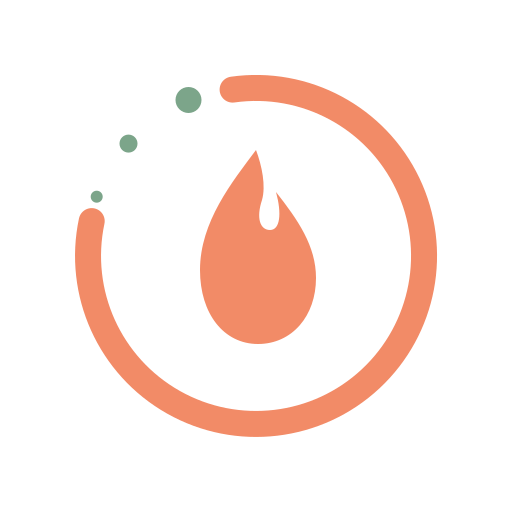
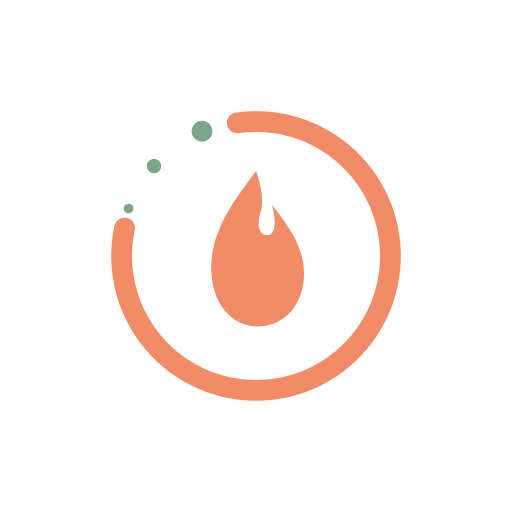
adv

Changed region(s): [[0.125, 0.125, 0.875, 0.875], [0.2188, 0.25, 0.2812, 0.3125], [0.2812, 0.3125, 0.3125, 0.3438]]

diff --git a/src/components/AnimatedSplash.tsx b/src/components/AnimatedSplash.tsx
@@ -1,0 +1,158 @@
+import { useEffect } from 'react';
+import { Platform, StyleSheet, View } from 'react-native';
+import Svg, { Circle, Defs, Path, RadialGradient, Stop } from 'react-native-svg';
+import Animated, {
+  runOnJS,
+  useAnimatedStyle,
+  useSharedValue,
+  withDelay,
+  withRepeat,
+  withSequence,
+  withTiming,
+} from 'react-native-reanimated';
+import { useThemeColors } from '../theme/useThemeColors';
+import { duration, easing } from '../theme/motion';
+
+export interface AnimatedSplashProps {
+  visible: boolean;
+  onExitComplete: () => void;
+}
+
+// Mismo tamaño/posición que el splash nativo (assets/splash-icon.png, imageWidth 200 en
+// app.json) — el mark se dibuja estático desde el primer frame, sin animar entrada, para que
+// el handoff nativo → custom sea invisible. Solo el glow y el texto entran animados.
+const MARK_SIZE = 168;
+const RING_D = 'M 232.6,89.6 A 168,168 0 1 1 91.7,221.1';
+const FLAME_D =
+  'M 256,150 C 232,182 200,222 200,270 C 200,314 224,344 258,344 C 292,344 316,316 316,278 C 316,246 298,220 276,192 C 282,214 280,230 270,230 C 260,230 256,218 262,200 C 266,186 262,166 256,150 Z';
+const DOTS = [
+  { cx: 96.7, cy: 196.7, r: 6 },
+  { cx: 128.5, cy: 143.6, r: 9 },
+  { cx: 188.5, cy: 100.0, r: 13 },
+];
+const IDLE_PULSE_DELAY = 900; // arranca después de que el texto ya asentó, para no "saltar" en el handoff
+
+export function AnimatedSplash({ visible, onExitComplete }: AnimatedSplashProps) {
+  const colors = useThemeColors();
+
+  const overlayOpacity = useSharedValue(1);
+  const glowOpacity = useSharedValue(0);
+  const markPulse = useSharedValue(1);
+  const wordmarkOpacity = useSharedValue(0);
+  const wordmarkTranslateY = useSharedValue(12);
+  const taglineOpacity = useSharedValue(0);
+  const taglineTranslateY = useSharedValue(12);
+
+  useEffect(() => {
+    glowOpacity.value = withDelay(150, withTiming(0.5, { duration: duration.slow }));
+
+    markPulse.value = withDelay(
+      IDLE_PULSE_DELAY,
+      withRepeat(
+        withSequence(
+          withTiming(1.03, { duration: duration.slow, easing: easing.standard }),
+          withTiming(1, { duration: duration.slow, easing: easing.standard }),
+        ),
+        -1,
+        true,
+      ),
+    );
+
+    wordmarkOpacity.value = withDelay(200, withTiming(1, { duration: duration.slow, easing: easing.decelerate }));
+    wordmarkTranslateY.value = withDelay(200, withTiming(0, { duration: duration.slow, easing: easing.decelerate }));
+
+    taglineOpacity.value = withDelay(340, withTiming(1, { duration: duration.slow, easing: easing.decelerate }));
+    taglineTranslateY.value = withDelay(340, withTiming(0, { duration: duration.slow, easing: easing.decelerate }));
+    // eslint-disable-next-line react-hooks/exhaustive-deps
+  }, []);
+
+  useEffect(() => {
+    if (!visible) {
+      overlayOpacity.value = withTiming(0, { duration: duration.slow, easing: easing.accelerate }, (finished) => {
+        if (finished) runOnJS(onExitComplete)();
+      });
+    }
+    // eslint-disable-next-line react-hooks/exhaustive-deps
+  }, [visible]);
+
+  const overlayStyle = useAnimatedStyle(() => ({ opacity: overlayOpacity.value }));
+  const glowStyle = useAnimatedStyle(() => ({ opacity: glowOpacity.value }));
+  const markStyle = useAnimatedStyle(() => ({ transform: [{ scale: markPulse.value }] }));
+  const wordmarkStyle = useAnimatedStyle(() => ({
+    opacity: wordmarkOpacity.value,
+    transform: [{ translateY: wordmarkTranslateY.value }],
+  }));
+  const taglineStyle = useAnimatedStyle(() => ({
+    opacity: taglineOpacity.value,
+    transform: [{ translateY: taglineTranslateY.value }],
+  }));
+
+  return (
+    <Animated.View
+      pointerEvents={visible ? 'auto' : 'none'}
+      style={[StyleSheet.absoluteFill, { backgroundColor: colors.background, zIndex: 50 }, overlayStyle]}
+    >
+      <View style={styles.markAnchor}>
+        <View style={styles.markBox}>
+          <Animated.View style={[styles.glow, glowStyle]}>
+            <Svg width={MARK_SIZE * 1.8} height={MARK_SIZE * 1.8} viewBox="0 0 100 100">
+              <Defs>
+                <RadialGradient id="glow" cx="50%" cy="50%" r="50%">
+                  <Stop offset="0%" stopColor="#F28B67" stopOpacity={0.35} />
+                  <Stop offset="100%" stopColor="#F28B67" stopOpacity={0} />
+                </RadialGradient>
+              </Defs>
+              <Circle cx="50" cy="50" r="50" fill="url(#glow)" />
+            </Svg>
+          </Animated.View>
+
+          <Animated.View style={markStyle}>
+            <Svg width={MARK_SIZE} height={MARK_SIZE} viewBox="0 0 512 512">
+              <Path d={RING_D} fill="none" stroke="#F28B67" strokeWidth={26} strokeLinecap="round" />
+              {DOTS.map((dot, i) => (
+                <Circle key={i} cx={dot.cx} cy={dot.cy} r={dot.r} fill="#7CA58A" />
+              ))}
+              <Path d={FLAME_D} fill="#F28B67" />
+            </Svg>
+          </Animated.View>
+        </View>
+
+        <Animated.Text style={[styles.wordmark, { color: colors.text }, wordmarkStyle]}>Cotidie</Animated.Text>
+        <Animated.Text style={[styles.tagline, { color: colors.textMuted }, taglineStyle]}>
+          A diario, mejor tú.
+        </Animated.Text>
+      </View>
+    </Animated.View>
+  );
+}
+
+const styles = StyleSheet.create({
+  // Centra el mark en el centro exacto de pantalla (igual que el splash nativo) — el
+  // texto cuelga debajo sin recentrar el bloque completo, así el icono no "salta" de posición.
+  markAnchor: {
+    position: 'absolute',
+    top: '50%',
+    left: 0,
+    right: 0,
+    alignItems: 'center',
+    transform: [{ translateY: -MARK_SIZE / 2 }],
+  },
+  markBox: {
+    width: MARK_SIZE,
+    height: MARK_SIZE,
+  },
+  glow: {
+    position: 'absolute',
+    top: -MARK_SIZE * 0.4,
+    left: -MARK_SIZE * 0.4,
+  },
+  wordmark: {
+    marginTop: 20,
+    fontSize: 34,
+    fontFamily: Platform.select({ ios: 'Georgia', android: 'serif' }),
+  },
+  tagline: {
+    marginTop: 4,
+    fontSize: 15,
+  },
+});

diff --git a/app/_layout.tsx b/app/_layout.tsx
@@ -1,4 +1,4 @@
-import { useEffect } from 'react';
+import { useEffect, useState } from 'react';
 import { AppState } from 'react-native';
 import { Stack, ThemeProvider, DarkTheme, DefaultTheme } from 'expo-router';
 import { StatusBar } from 'expo-status-bar';
@@ -15,6 +15,11 @@ import { colors } from '../src/theme/tokens';
 import { useThemeMode } from '../src/theme/useThemeColors';
 import { supabase } from '../src/lib/supabase';
 import { session$, authReady$ } from '../src/state/session$';
+import { AnimatedSplash } from '../src/components/AnimatedSplash';
+
+SplashScreen.preventAutoHideAsync().catch(() => {});
+
+const SPLASH_MIN_DURATION_MS = 900;
 
 export default function RootLayout() {
   const session = use$(session$);
@@ -60,9 +65,16 @@ export default function RootLayout() {
     };
   }, []);
 
+  const [splashDone, setSplashDone] = useState(false);
+  const [minTimeElapsed, setMinTimeElapsed] = useState(false);
+
   useEffect(() => {
-    if (authReady) SplashScreen.hide();
-  }, [authReady]);
+    const timer = setTimeout(() => setMinTimeElapsed(true), SPLASH_MIN_DURATION_MS);
+    SplashScreen.hideAsync();
+    return () => clearTimeout(timer);
+  }, []);
+
+  const showApp = authReady && minTimeElapsed;
 
   return (
     <SafeAreaProvider>
@@ -91,6 +103,9 @@ export default function RootLayout() {
               </Stack.Protected>
             </Stack>
           </GestureHandlerRootView>
+        )}
+        {!splashDone && (
+          <AnimatedSplash visible={!showApp} onExitComplete={() => setSplashDone(true)} />
         )}
       </ThemeProvider>
     </SafeAreaProvider>
